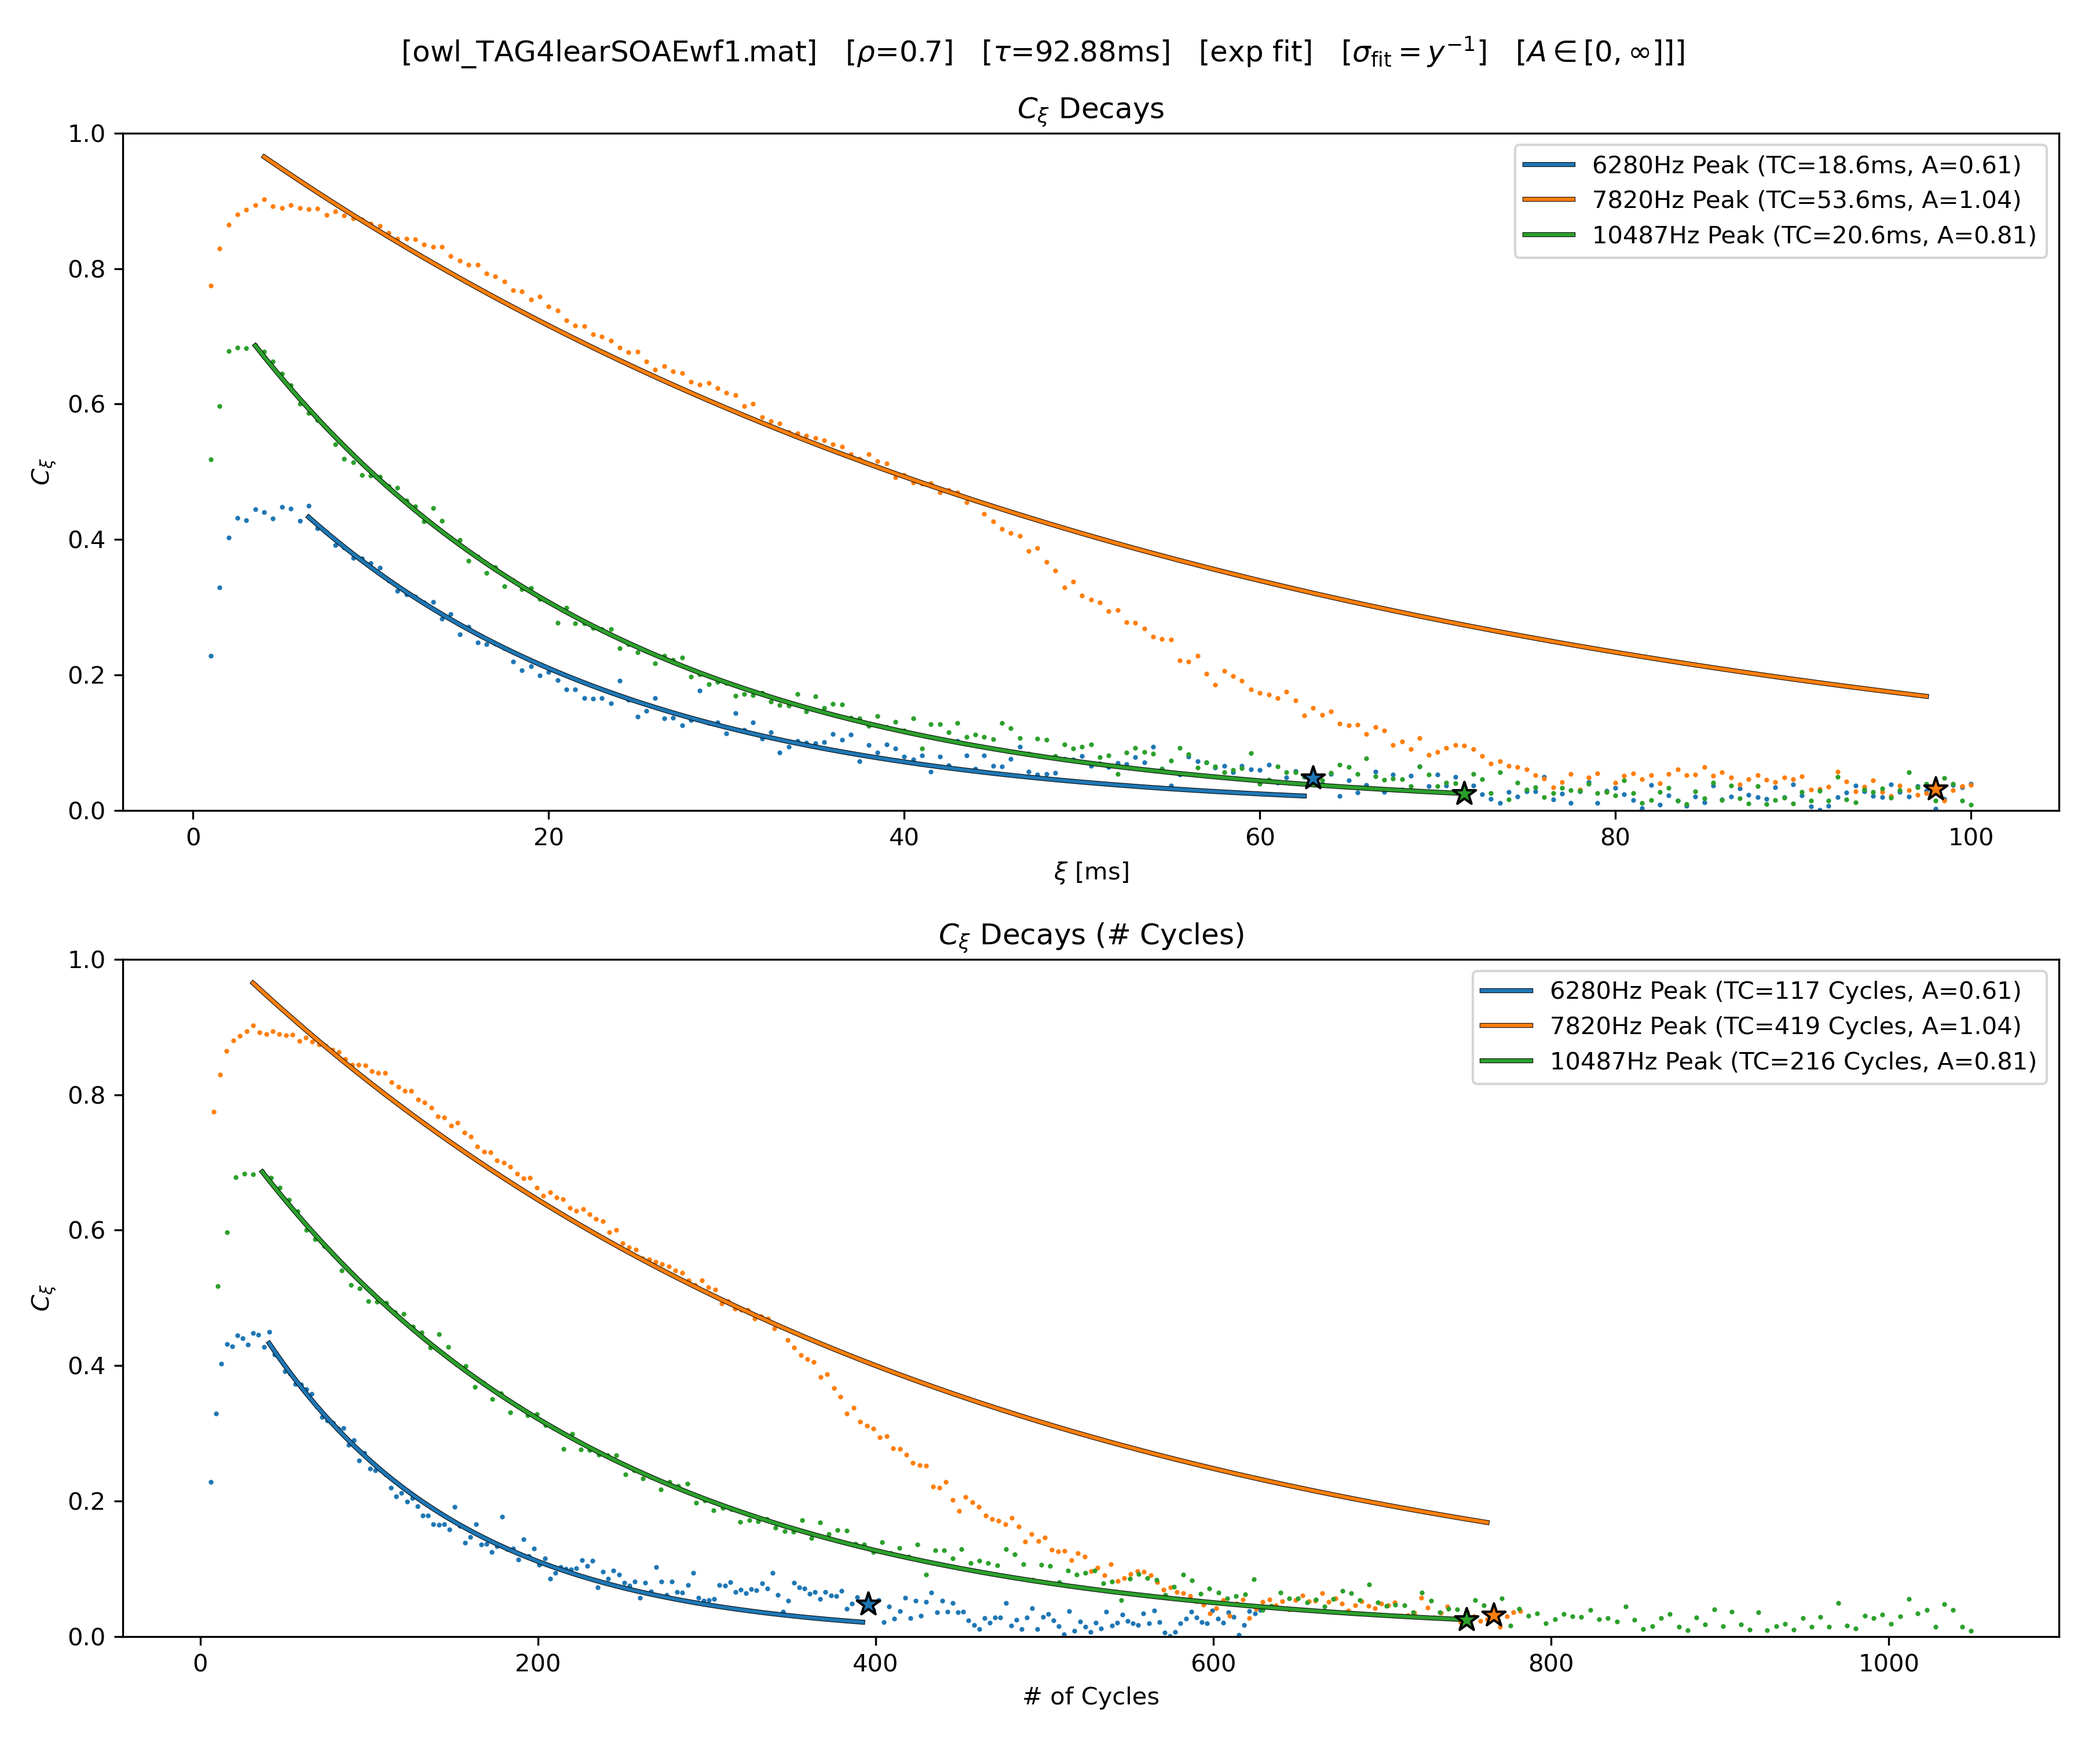
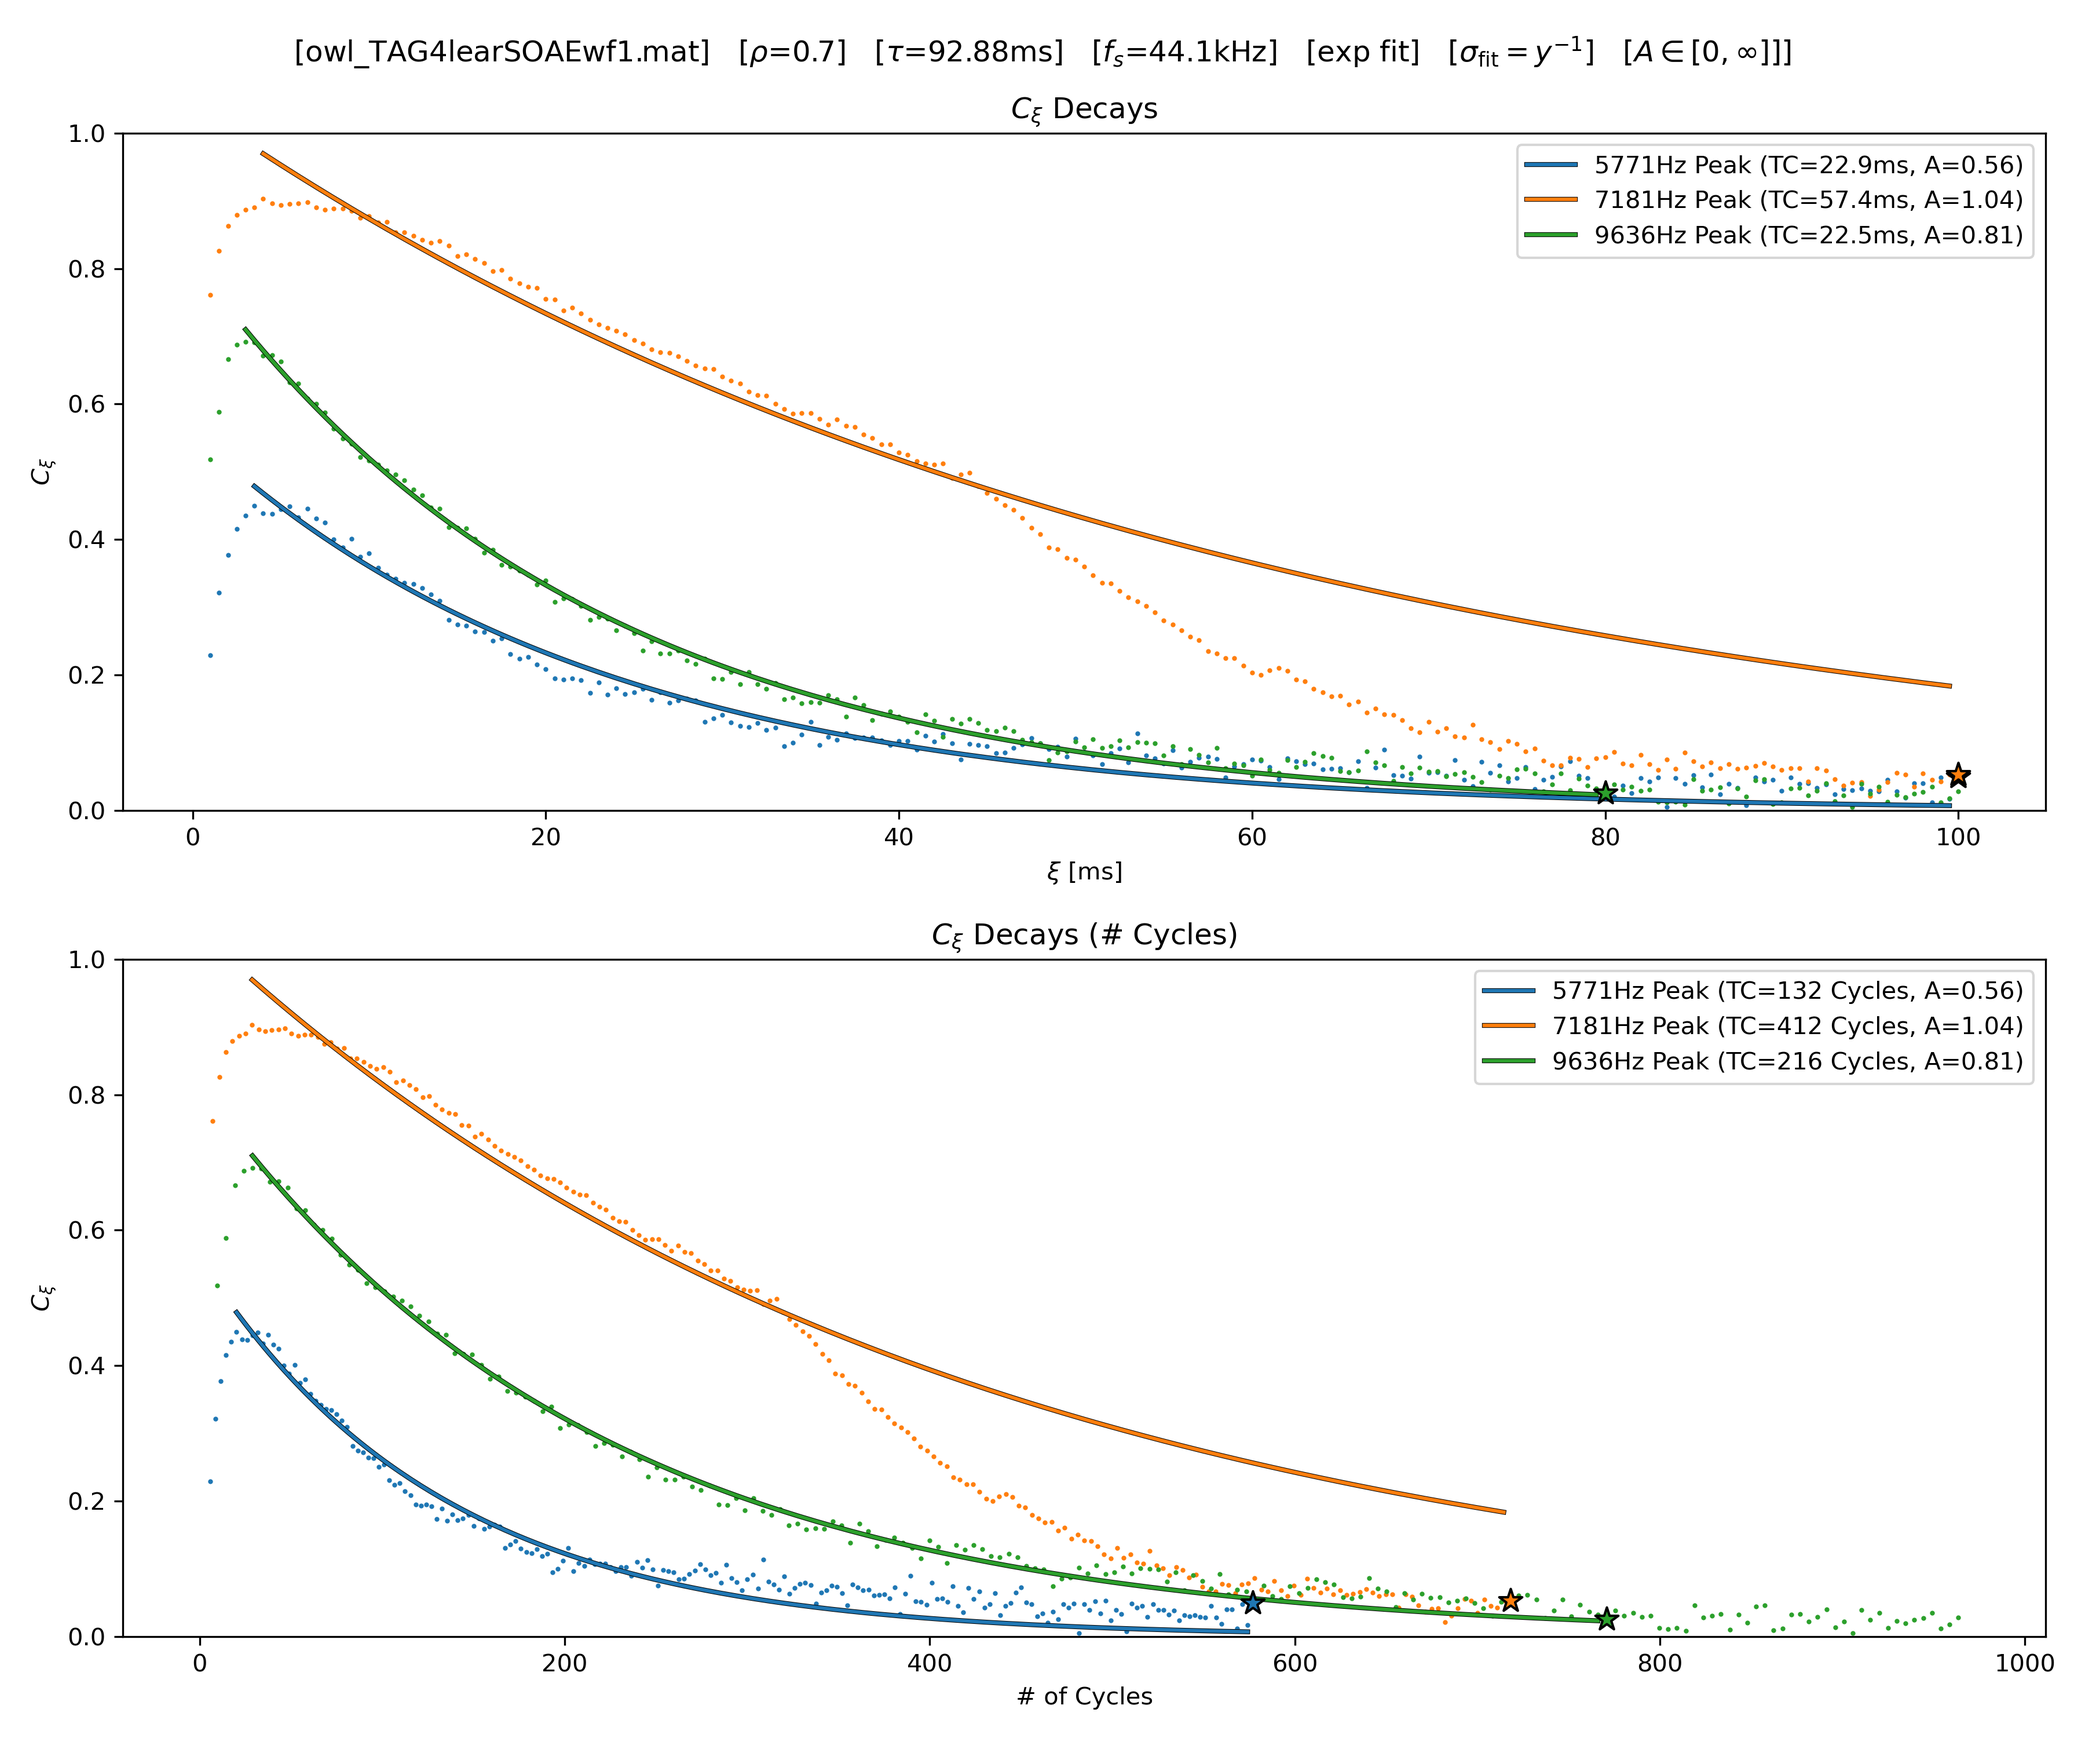
fixed owl samplerates

diff --git a/c_xi_decay_fit_plots_weight_compare.py b/c_xi_decay_fit_plots_weight_compare.py
@@ -78,7 +78,7 @@ for species in ['Anolis', 'Owl', 'Human']:
     for i in range (3):
         row = df_species.iloc[i]
         wf_fn = row['filepath'].split('\\')[-1]
-        wf_list.append((row['wf'], row['sr'], wf_fn, species))
+        wf_list.append((row['wf'], 44100, wf_fn, species))
 del df
 
 
@@ -87,20 +87,8 @@ del df
 for sigma_weighting_power in [0, -1]:
     for wf_idx in [0, 2, 4, 5, 6, 7]: # Started with 0, 2 (Lizard) - 4, 5 (Owl) - 6, 7 (Human)
         wf, fs, wf_fn, species = wf_list[wf_idx]
-
-        # Set parameters (same for human and lizard)
-        rho = 0.7
-        tau = 2**12 / 44100 # Everyone uses the same tau
-        tauS = int(tau*fs)
-        # Raise warning if tauS is not a power of two AND the samplerate is indeed 44100
-        if np.log2(tauS) != int(np.log2(tauS)):
-            if fs == 44100:
-                raise ValueError("tauS is not a power of 2, but the samplerate is 44100!")
-            # else:
-            #     print(f"WARNING: tauS is not a power of 2, but the samplerate is {fs} (not 44100), so we'll assume you're just ensuring tau aligns with other waveforms!")
-
         
-
+        # Set species-specific parameters
         if species == 'Human':
             # Human parameters
             min_xi = 0.001
@@ -121,6 +109,21 @@ for sigma_weighting_power in [0, -1]:
             max_xi = 0.1
             delta_xi = 0.0005
             max_khz = 12
+            if 'OWL_OWL' in wf_fn.upper():
+                fs = 48000
+                print(f"Changing samplerate of {wf_fn} to 48000Hz")
+                
+        # Set parameters (same for human and lizard)
+        rho = 0.7
+        tau = 2**12 / 44100 # Everyone uses the same tau
+        tauS = int(tau*fs)
+        # Raise warning if tauS is not a power of two AND the samplerate is indeed 44100
+        if np.log2(tauS) != int(np.log2(tauS)):
+            if fs == 44100:
+                raise ValueError("tauS is not a power of 2, but the samplerate is 44100!")
+            # else:
+            #     print(f"WARNING: tauS is not a power of 2, but the samplerate is {fs} (not 44100), so we'll assume you're just ensuring tau aligns with other waveforms!")
+
 
 
             
@@ -128,7 +131,7 @@ for sigma_weighting_power in [0, -1]:
         # Open coherences, or calculate if needed
         suptitle=rf"[{wf_fn}]   [$\rho$={rho}]   [$\tau$={tau*1000:.2f}ms]   [$\sigma_{{\text{{fit}}}} = y^{ {sigma_weighting_power} }$]"
         fn_id = rf"{species}, {wf_fn.split('.')[0]}"
-        pkl_fn_id = rf"tau={tau*1000:.0f}, rho={rho}, {species}, {wf_fn.split('.')[0]}"
+        pkl_fn_id = rf"tau={tau*1000:.0f}, fs={fs}, rho={rho}, {species}, {wf_fn.split('.')[0]}"
         pkl_fn = f'C_xi Decay Coherences - {pkl_fn_id}'
         pkl_folder = r'Pickles/'
         fig_folder = r'Figures/C_xi Decay Figures/C_xi Decay Fits - Weighting Comparison'
@@ -153,7 +156,6 @@ for sigma_weighting_power in [0, -1]:
             
             with open(pkl_folder + pkl_fn + '.pkl', 'wb') as file:
                 pickle.dump((coherences, f, xis, tau, rho, wf_fn, species), file)
-            
         
         # Peak pick the target bins
         if wf_fn == 'anole_AC6rearSOAEwfB1.mat': # 0
@@ -163,10 +165,10 @@ for sigma_weighting_power in [0, -1]:
             peak_freqs = [990, 2000, 3670]
             noise_freqs = [400, 12000]
         elif wf_fn == 'owl_Owl6L1.mat': # 4
-            peak_freqs = [4867, 6384, 7235]
+            peak_freqs = [5298, 6945, 7881]
             noise_freqs = [400, 12000]
         elif wf_fn == 'owl_TAG4learSOAEwf1.mat': # 5
-            peak_freqs = [6280, 7820, 10487]
+            peak_freqs = [5770, 7181, 9636]
             noise_freqs = [400, 12000]
         elif wf_fn == 'human_TH14RearwaveformSOAE.mat': # 6
             peak_freqs = [603, 2250, 4370]
@@ -182,11 +184,15 @@ for sigma_weighting_power in [0, -1]:
         bin_names = []
 
         for peak_freq in peak_freqs:
-            bin_idxs.append(np.argmin(np.abs(f - peak_freq)))
+            bin_idx = np.argmin(np.abs(f - peak_freq))
+            bin_idxs.append(bin_idx)
+            peak_freq = f[bin_idx]
             bin_names.append(f"{peak_freq:.0f}Hz Peak")
 
         for noise_freq in noise_freqs:
-            bin_idxs.append(np.argmin(np.abs(f - noise_freq)))
+            bin_idx = np.argmin(np.abs(f - peak_freq))
+            bin_idxs.append(bin_idx)
+            noise_freq = f[bin_idx]
             bin_names.append(f"{noise_freq:.0f}Hz Noise")
             
         freq_list = peak_freqs + noise_freqs
@@ -231,7 +237,7 @@ for sigma_weighting_power in [0, -1]:
         # Take care of effects of parameters
 
         # Take care of A restriction
-        suptitle=rf"[{wf_fn}]   [$\rho$={rho}]   [$\tau$={tau*1000:.2f}ms]   [{fit_func_type} fit]   [$\sigma_{{\text{{fit}}}} = y^{ {sigma_weighting_power} }$]" 
+        suptitle=rf"[{wf_fn}]   [$\rho$={rho}]   [$\tau$={tau*1000:.2f}ms]   [$f_s$={fs/1000:.1f}kHz]   [{fit_func_type} fit]   [$\sigma_{{\text{{fit}}}} = y^{ {sigma_weighting_power} }$]" 
         if fit_func_type!='sigmoid_loc':
             if A_max == 1:
                 suptitle = suptitle + r"   [$A \in [0, 1]$]]"
